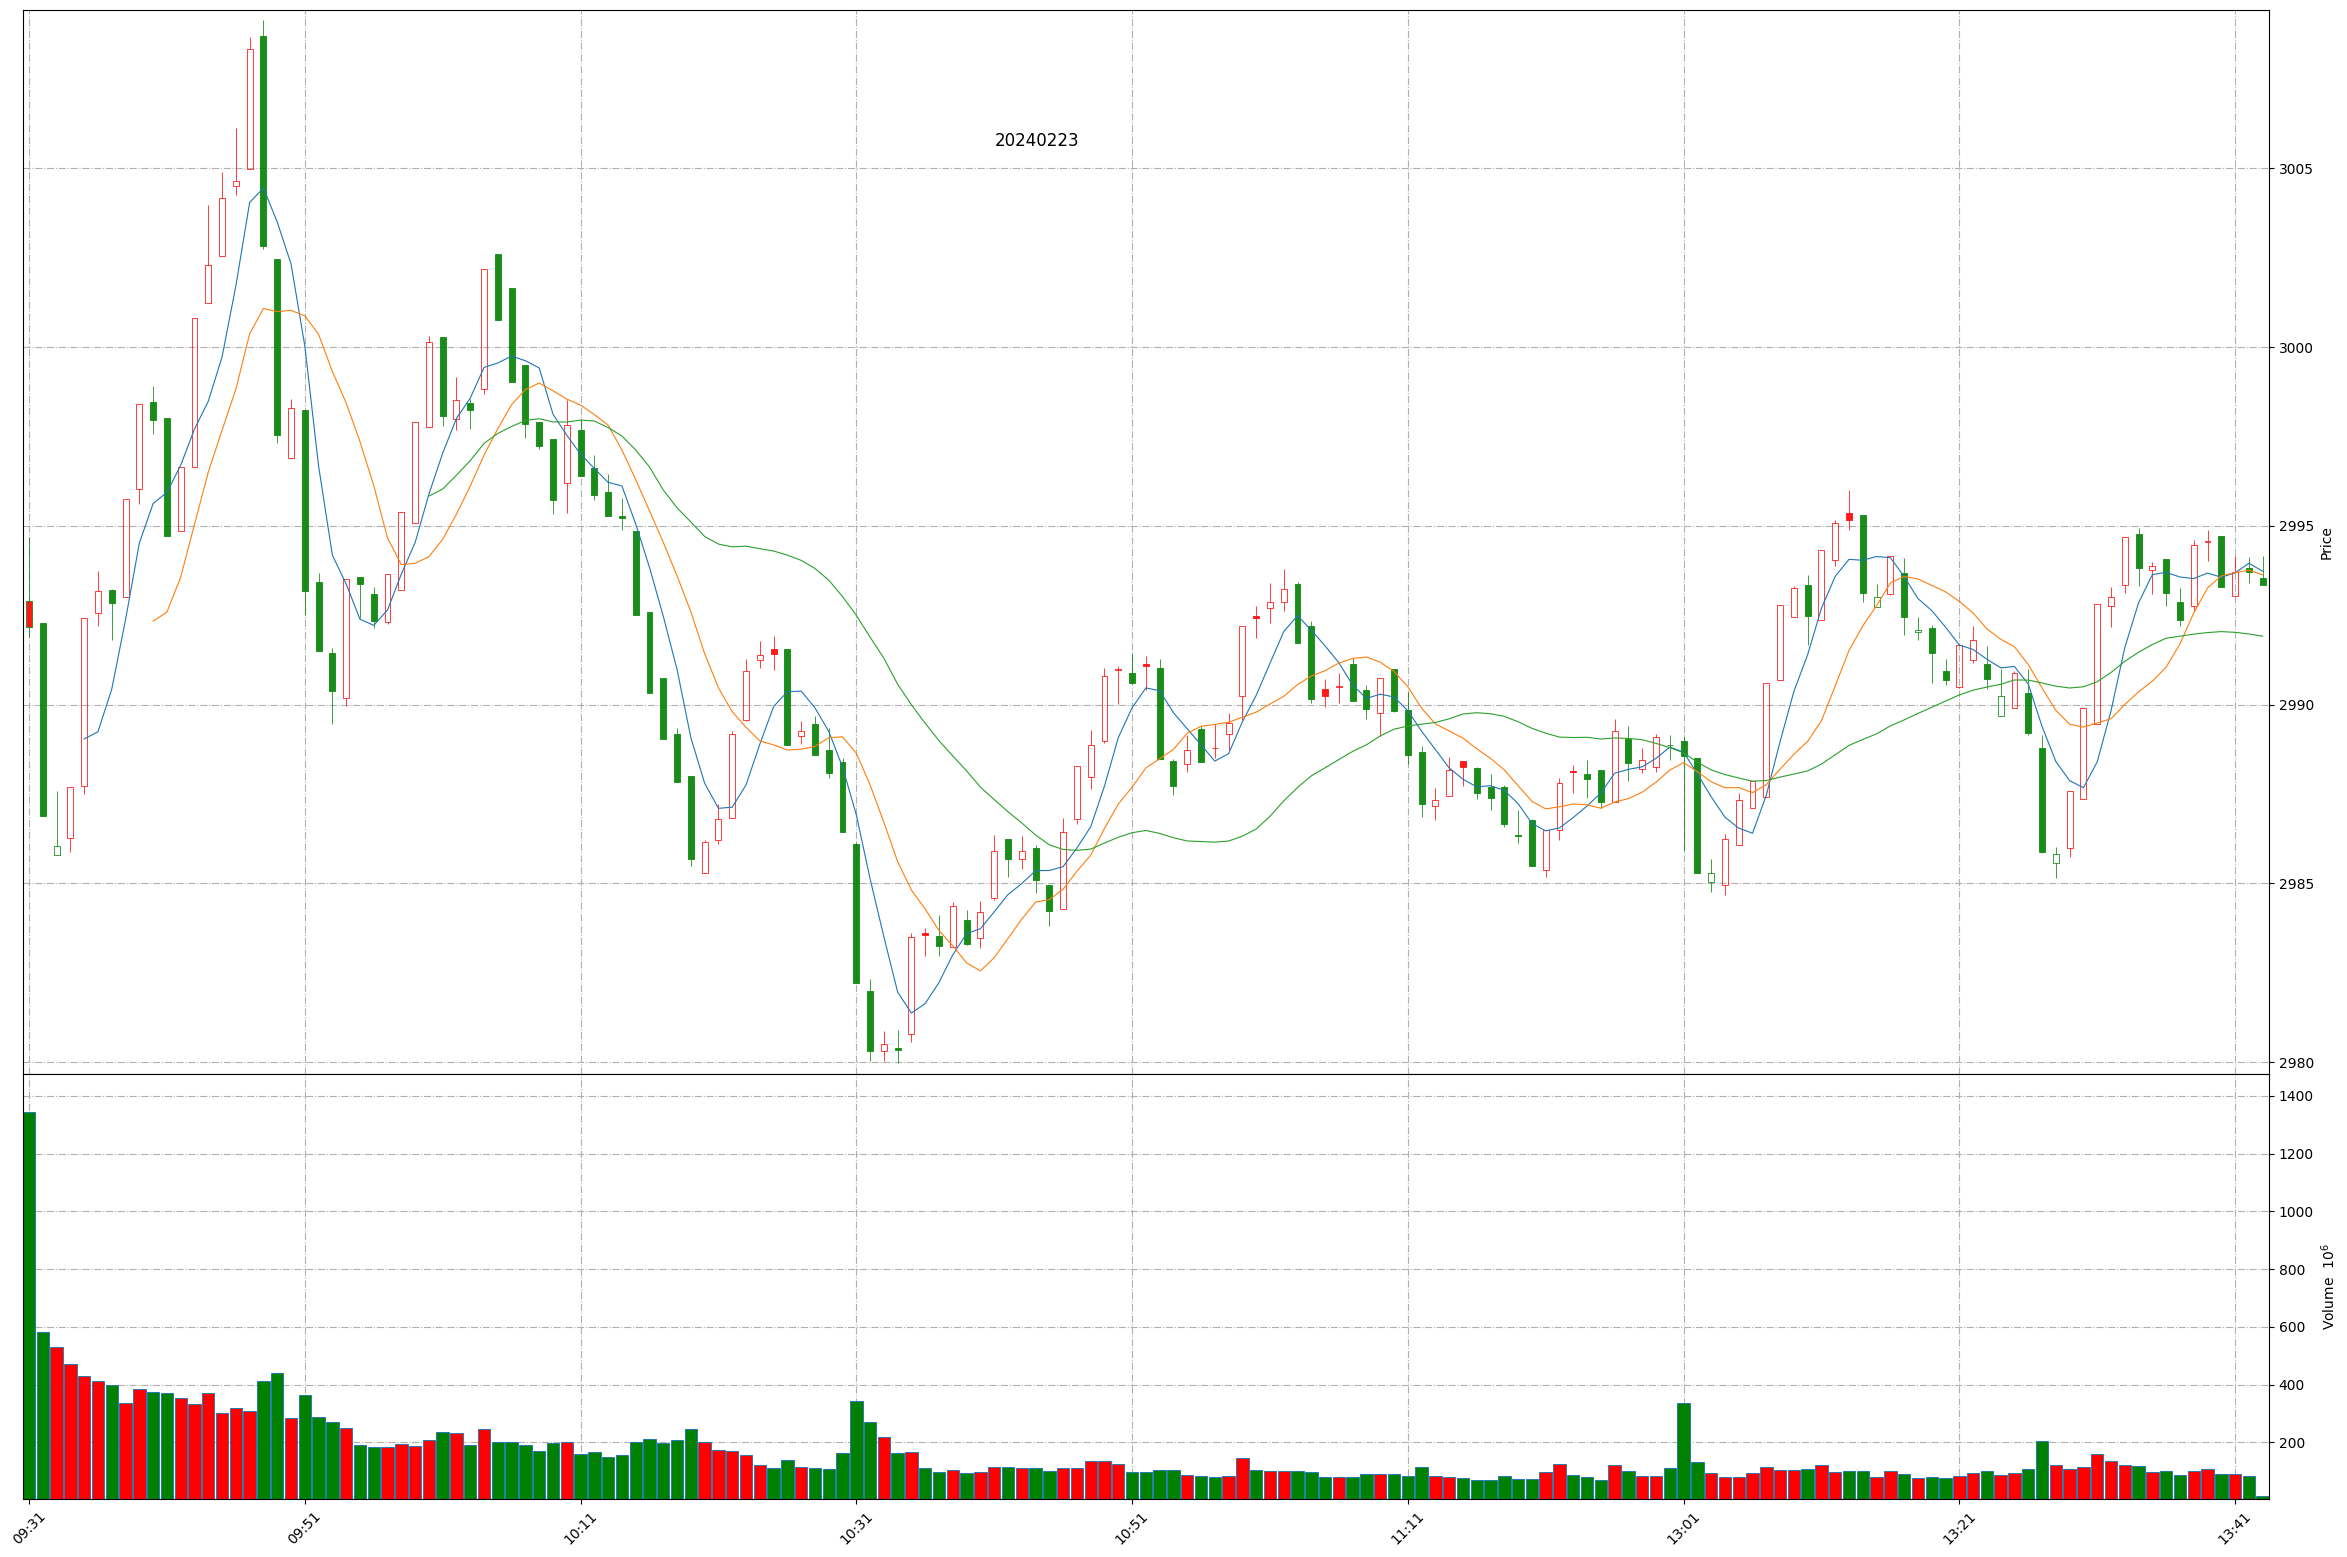
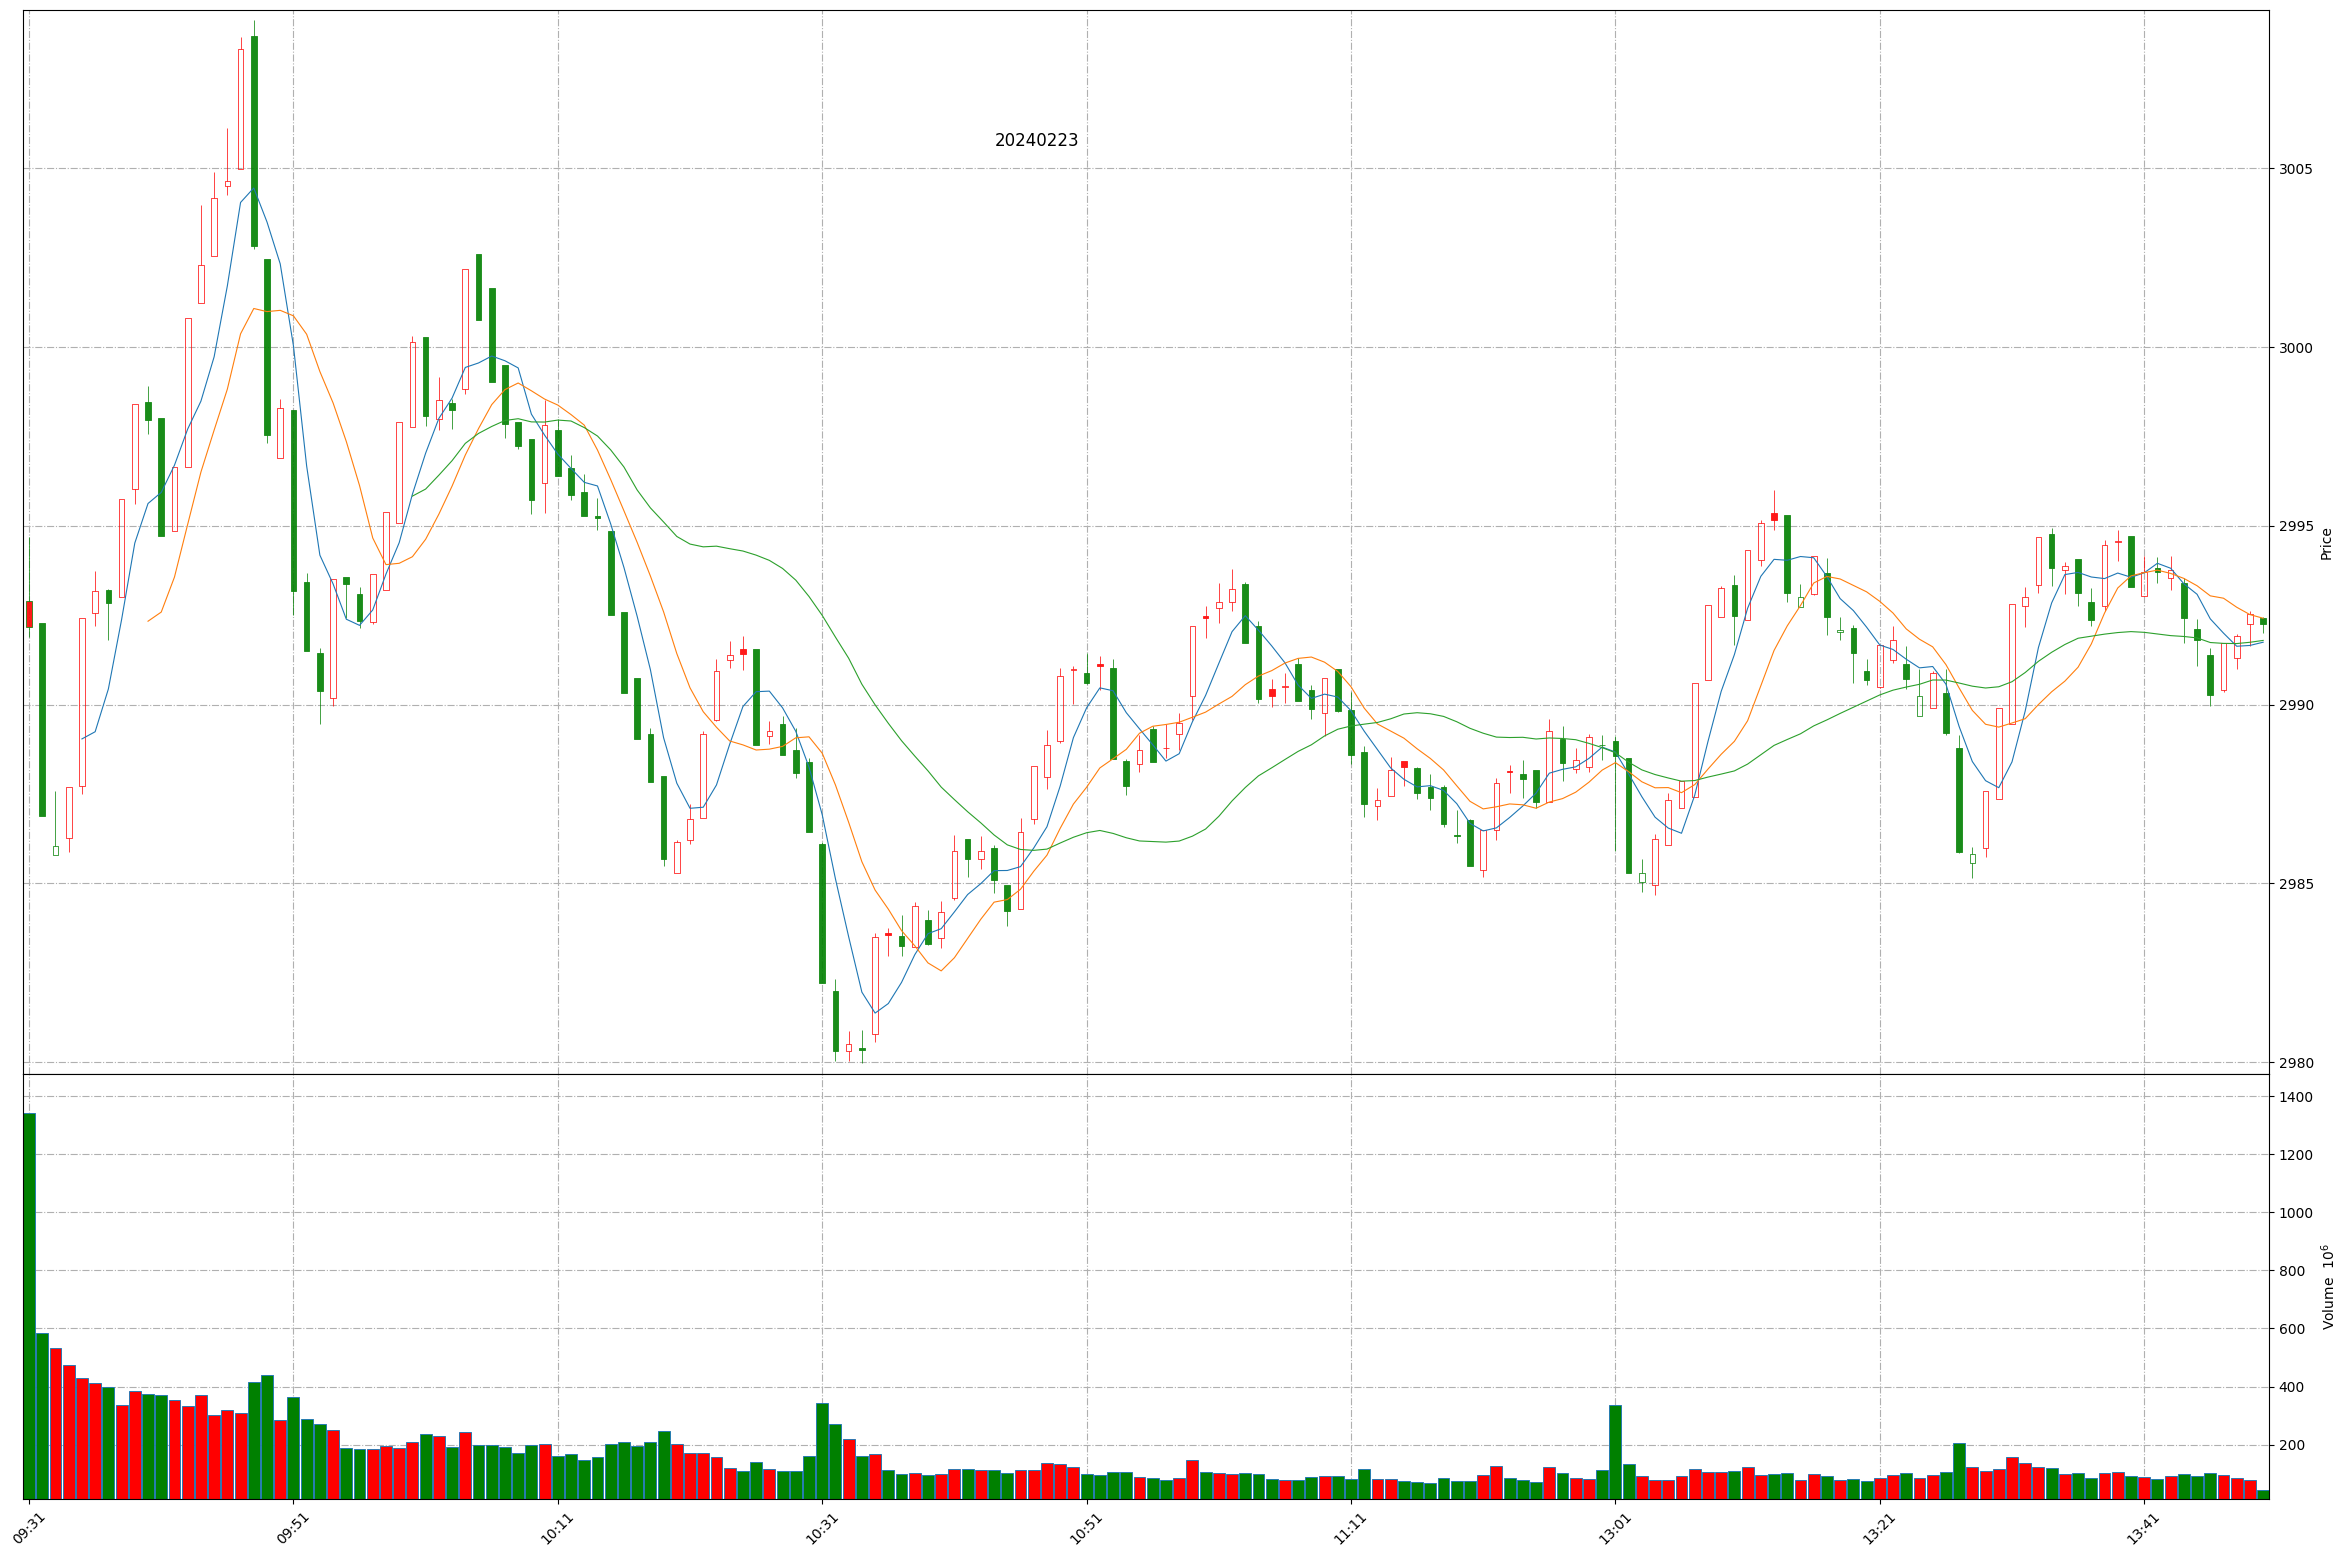
Github action update at 2024-02-23 13:49:45.

diff --git a/README.md b/README.md
@@ -1,11 +1,11 @@
 
 # Daily-A-share-market-quotes 每日 A 股指数（5min 更新）- 20240223
 
-### 上证指数 20240223 13:42
+### 上证指数 20240223 13:49
 ![](./fig/2024/2/20240223-sh000001.png)
 
-### 深证成指 20240223 13:42
+### 深证成指 20240223 13:49
 ![](./fig/2024/2/20240223-sz399001.png)
 
-### 北证50 20240223 13:42
+### 北证50 20240223 13:49
 ![](./fig/2024/2/20240223-bj899050.png)
